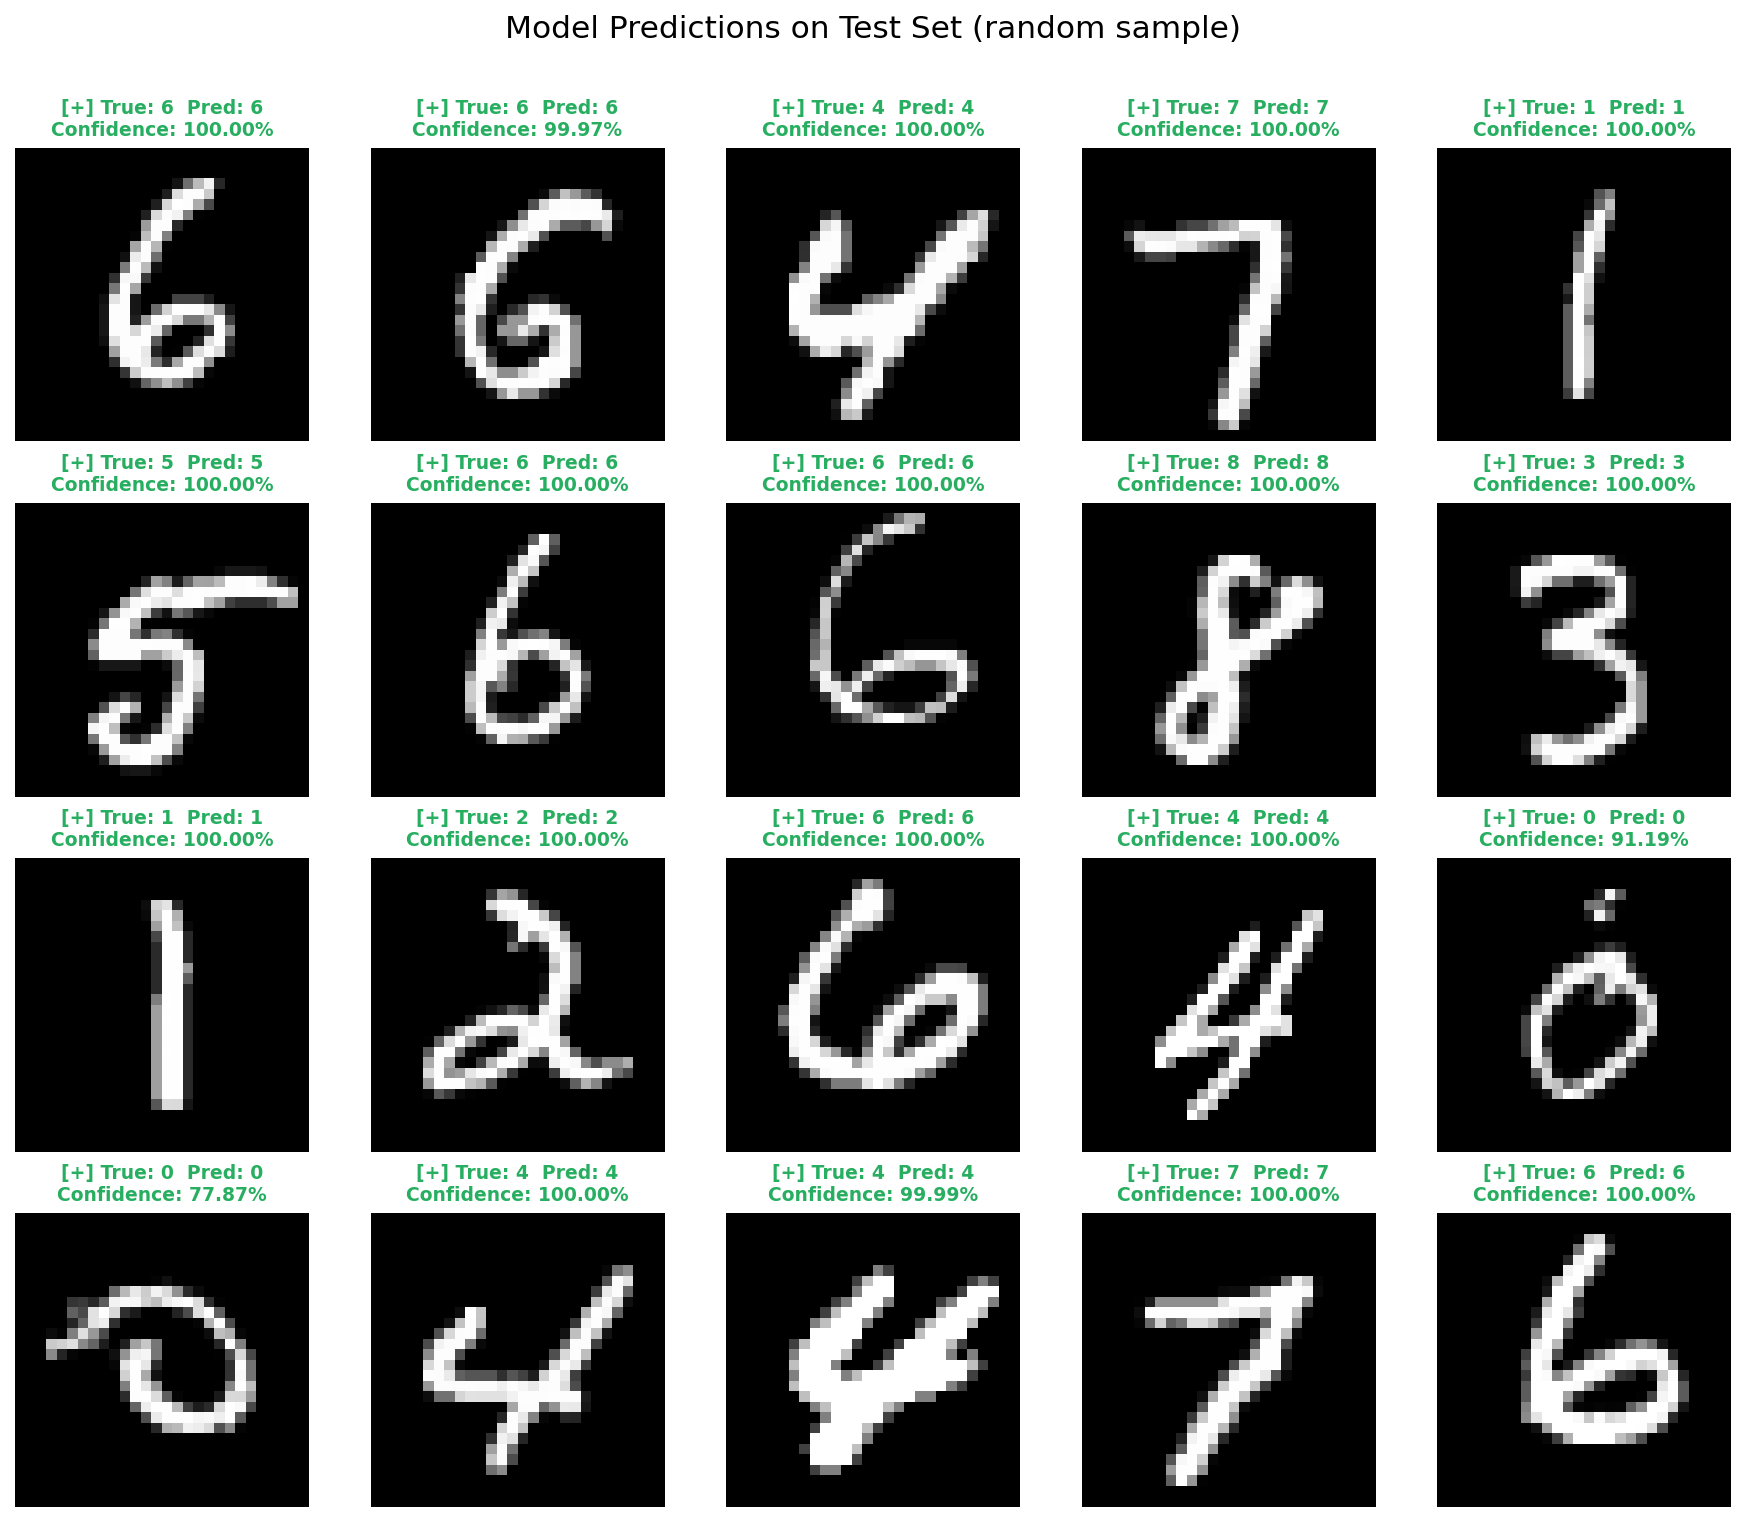
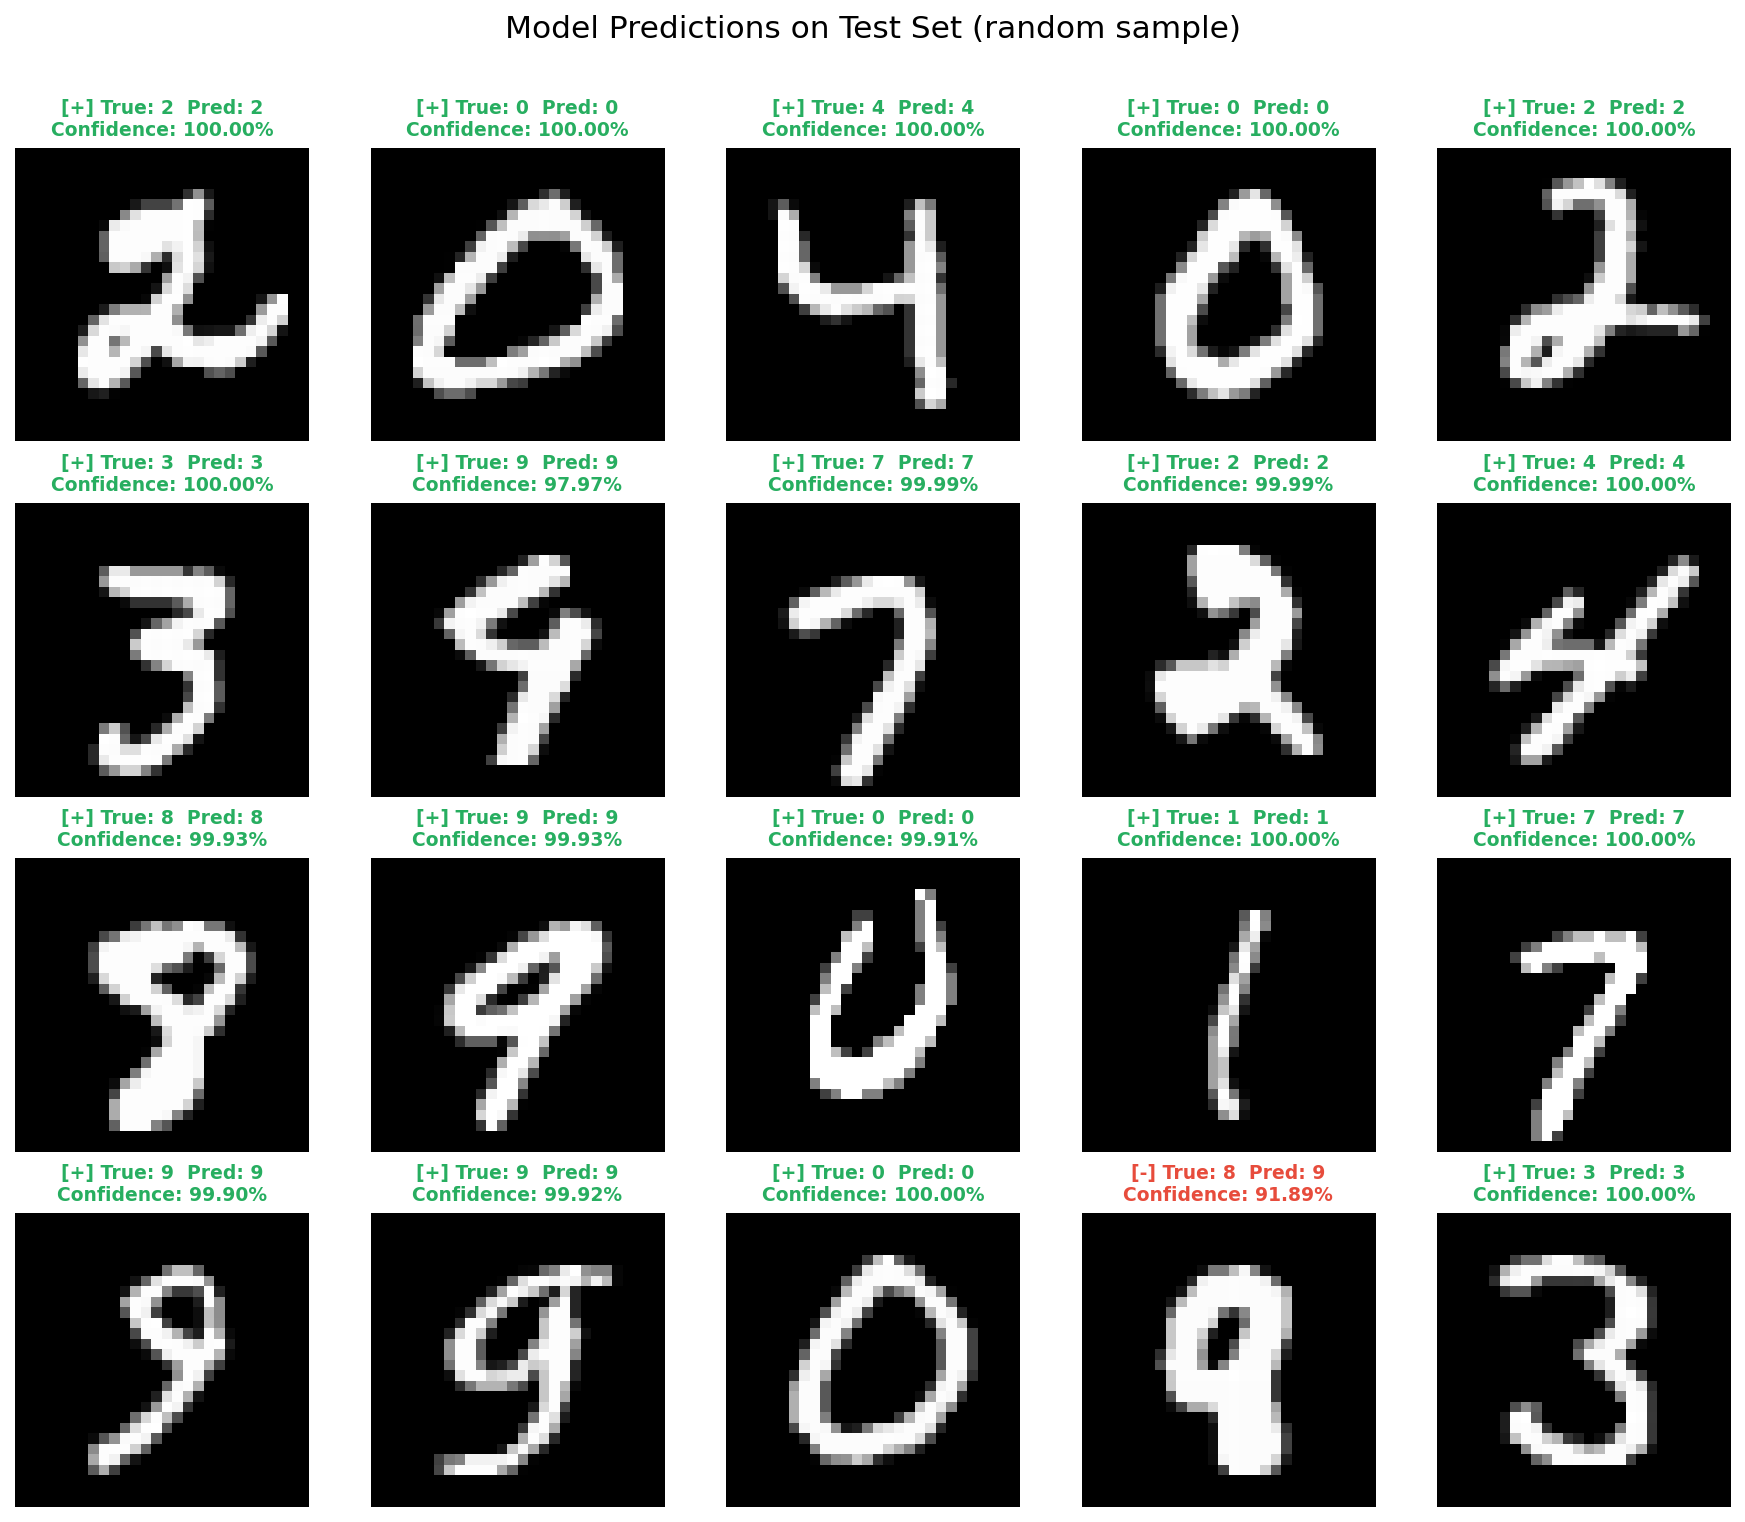
refactor(viz): 区分架构图中两个 MaxPool 层的标签命名
- 将第一个最大池化层标签由 "MaxPool\n2x2" 改为 "MaxPool1\n2x2"，避免与第二层混淆
- 将第二个最大池化层标签由 "MaxPool\n2x2" 改为 "MaxPool2\n2x2"，使架构图层级关系更清晰
- 同步更新 architecture_diagram.png 与 prediction_demo.png，使可视化输出与代码保持一致

diff --git a/scripts/visualizeModel.py b/scripts/visualizeModel.py
@@ -227,7 +227,7 @@ def plotArchitectureDiagram():
             "y": 3.5,
             "w": 1.5,
             "h": 1.5,
-            "label": "MaxPool\n2x2",
+            "label": "MaxPool1\n2x2",
             "color": COLOR_POOL,
         },
         {
@@ -243,7 +243,7 @@ def plotArchitectureDiagram():
             "y": 3.5,
             "w": 1.5,
             "h": 1.5,
-            "label": "MaxPool\n2x2",
+            "label": "MaxPool2\n2x2",
             "color": COLOR_POOL,
         },
         {